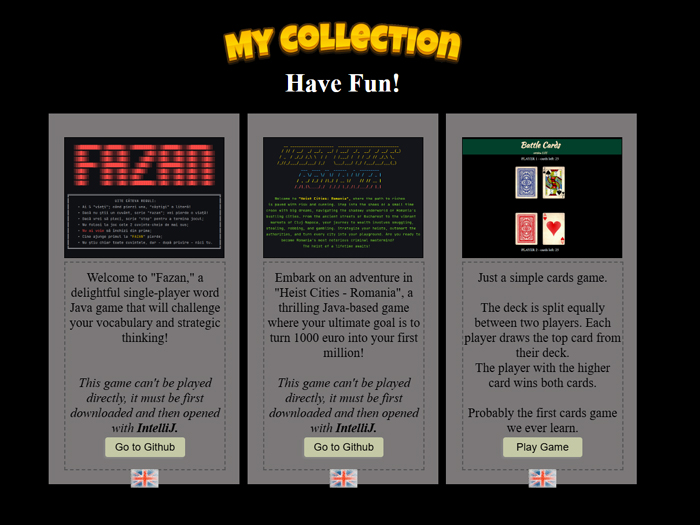
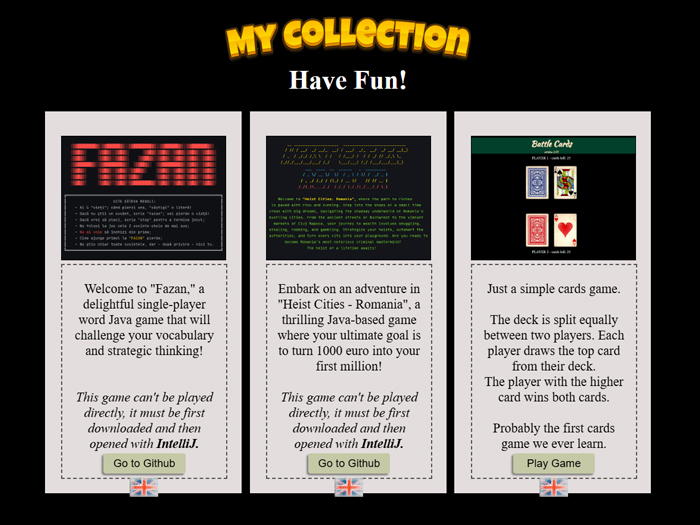
minor aspect details

diff --git a/style.css b/style.css
@@ -16,6 +16,12 @@ body{
     margin-top: 30px;
 }
 
+p{
+    font-size: 16px;
+    padding: 10px;
+}
+
+
 #bigDiv{
     display: flex;
     flex-direction: column;
@@ -51,7 +57,8 @@ body{
     height: 200px;
     perspective: 1000px; 
     margin-bottom: 30px;
-    background-color: rgb(123, 120, 120);
+    /* background-color: rgb(123, 120, 120); */
+    background-color: rgb(227, 221, 221);
     padding: 20px;
     padding-bottom: 30px;
 }
@@ -100,7 +107,7 @@ button{
     background-color: rgb(197, 201, 166);
     box-shadow: -2px 2px 2px rgb(134, 132, 132);
     position: absolute;
-    bottom: 15px;
+    bottom: 5px;
     left: 50px;
 }
 
@@ -148,12 +155,10 @@ footer{
 
     button{
     left: 33%;
+    bottom: 15px;
     }
 
-    p{
-        font-size: 16px;
-        padding: 3px;
-    }
+    
 
     .smallFlag{
         width: 50px;
